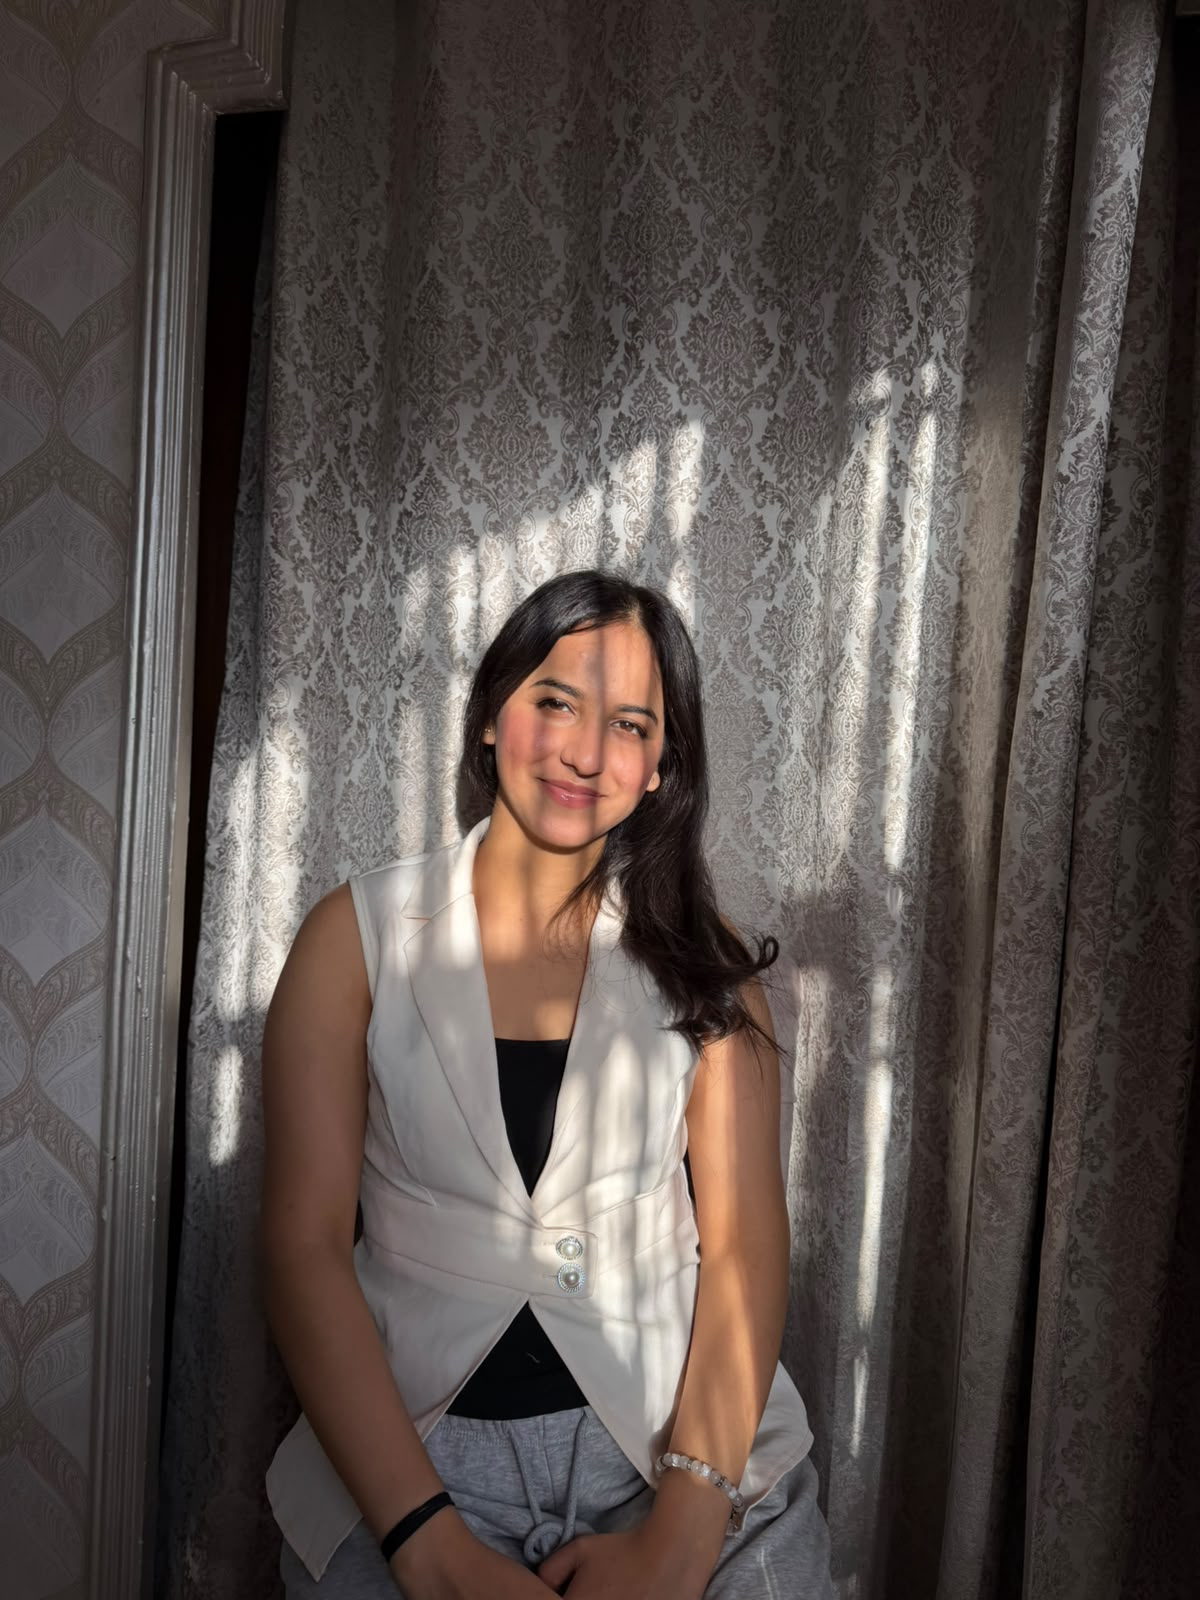
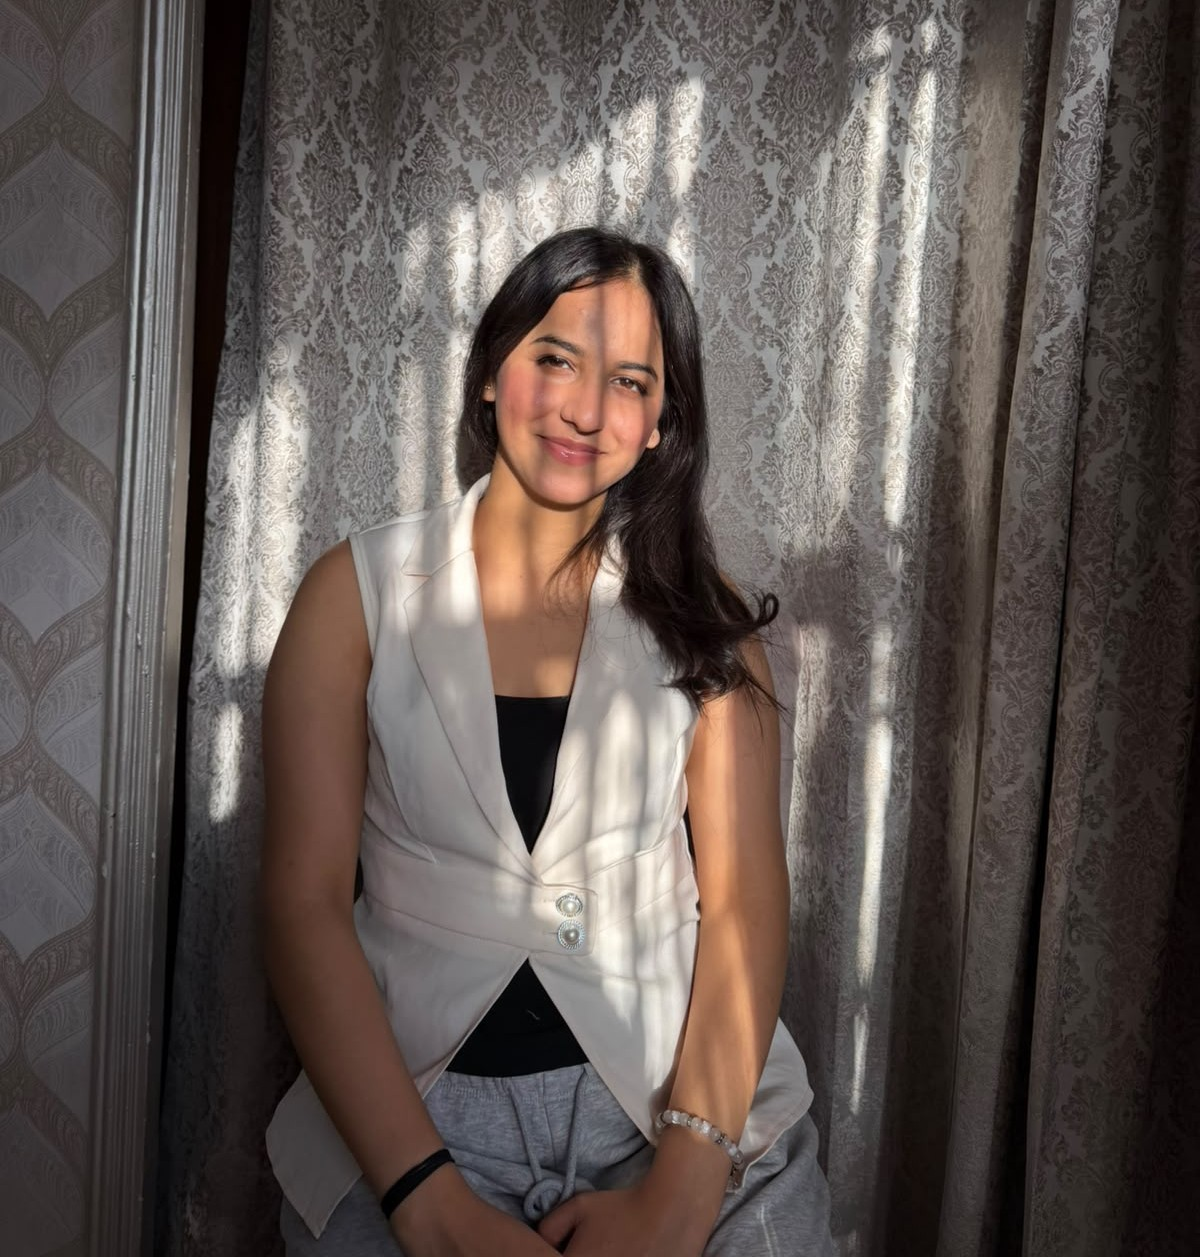
Reveal President card photo and name upon 3 clicks during electric shock explosion

diff --git a/src/components/MeetTheCrew.tsx b/src/components/MeetTheCrew.tsx
@@ -300,17 +300,20 @@ function CrewCard({
   cardRef,
   onTripleClick,
   isShockActive = false,
+  isRevealed = false,
 }: {
   member: CrewMember;
   width: string;
   cardRef?: React.RefObject<HTMLDivElement | null>;
   onTripleClick?: () => void;
   isShockActive?: boolean;
+  isRevealed?: boolean;
 }) {
   const clicksRef = useRef<number[]>([]);
+  const isCurrentlySecret = member.isSecret && !isRevealed;
 
   const handlePointerDown = () => {
-    if (!member.isSecret || !onTripleClick || isShockActive) return;
+    if (!isCurrentlySecret || !onTripleClick || isShockActive) return;
 
     const now = Date.now();
     // Keep clicks within 900ms window
@@ -329,7 +332,7 @@ function CrewCard({
       ref={cardRef}
       onPointerDown={handlePointerDown}
       className={`relative flex flex-col shrink-0 rounded-[10px] overflow-hidden ${
-        member.isSecret ? "cursor-pointer select-none" : ""
+        isCurrentlySecret ? "cursor-pointer select-none" : ""
       }`}
       style={{
         width,
@@ -389,7 +392,7 @@ function CrewCard({
       </div>
 
       <div className="relative w-full" style={{ aspectRatio: "1 / 1" }}>
-        {member.isSecret ? (
+        {isCurrentlySecret ? (
           <div
             className="absolute inset-0 flex flex-col items-center justify-center p-4 text-center select-none"
             style={{
@@ -449,14 +452,21 @@ function CrewCard({
             </div>
           </div>
         ) : member.image ? (
-          <Image
-            src={member.image}
-            alt={member.name}
-            fill
-            className="object-cover"
-            style={{ objectPosition: member.imagePosition || "center" }}
-            sizes="(max-width: 640px) 160px, 240px"
-          />
+          <motion.div
+            className="absolute inset-0"
+            initial={member.isSecret ? { opacity: 0, scale: 1.15 } : false}
+            animate={member.isSecret ? { opacity: 1, scale: 1 } : false}
+            transition={{ duration: 0.6, ease: "easeOut" }}
+          >
+            <Image
+              src={member.image}
+              alt={member.name}
+              fill
+              className="object-cover"
+              style={{ objectPosition: member.imagePosition || "center" }}
+              sizes="(max-width: 640px) 160px, 240px"
+            />
+          </motion.div>
         ) : (
           <div
             className="absolute inset-0 flex items-center justify-center"
@@ -481,23 +491,25 @@ function CrewCard({
         style={{ background: "#0f0f0f", height: 50 }}
       >
         <div className="min-w-0 flex-1">
-          {!member.isSecret && (
-            <p
+          {!isCurrentlySecret && (
+            <motion.p
+              initial={member.isSecret ? { opacity: 0, y: 5 } : false}
+              animate={member.isSecret ? { opacity: 1, y: 0 } : false}
               className="font-bold leading-tight text-white truncate"
               style={{ fontSize: "clamp(10px, 2.2vw, 13px)" }}
             >
               {member.name}
-            </p>
+            </motion.p>
           )}
           <p
-            className={`truncate ${member.isSecret ? "font-bold text-white text-center sm:text-left" : "mt-0.5 text-white/40"}`}
-            style={{ fontSize: member.isSecret ? "clamp(10px, 2.2vw, 12px)" : "clamp(8px, 2vw, 11px)" }}
+            className={`truncate ${isCurrentlySecret ? "font-bold text-white text-center sm:text-left" : "mt-0.5 text-white/40"}`}
+            style={{ fontSize: isCurrentlySecret ? "clamp(10px, 2.2vw, 12px)" : "clamp(8px, 2vw, 11px)" }}
             title={member.role}
           >
             {member.role}
           </p>
         </div>
-        {!member.isSecret && (
+        {!isCurrentlySecret && (
           <div className="flex gap-1.5 shrink-0">
             <SocialLink
               href={member.github}
@@ -545,12 +557,14 @@ function CrewRow({
   presidentCardRef,
   onPresidentTripleClick,
   isShockActive = false,
+  isPresidentRevealed = false,
 }: {
   title: string;
   members: CrewMember[];
   presidentCardRef?: React.RefObject<HTMLDivElement | null>;
   onPresidentTripleClick?: () => void;
   isShockActive?: boolean;
+  isPresidentRevealed?: boolean;
 }) {
   const isPresidentRow = title === "President & Campus Ambassador";
 
@@ -568,6 +582,7 @@ function CrewRow({
               member.isSecret && isPresidentRow ? onPresidentTripleClick : undefined
             }
             isShockActive={member.isSecret && isPresidentRow ? isShockActive : false}
+            isRevealed={member.isSecret && isPresidentRow ? isPresidentRevealed : false}
           />
         ))}
       </div>
@@ -602,6 +617,16 @@ export default function MeetTheCrew() {
   const sectionRef = useRef<HTMLDivElement>(null);
   const presidentCardRef = useRef<HTMLDivElement>(null);
   const [isShockActive, setIsShockActive] = useState(false);
+  const [isPresidentRevealed, setIsPresidentRevealed] = useState(false);
+
+  const handlePresidentTripleClick = () => {
+    if (isPresidentRevealed || isShockActive) return;
+    setIsShockActive(true);
+    // Reveal President at the climax of the electric shock explosion (~750ms)
+    setTimeout(() => {
+      setIsPresidentRevealed(true);
+    }, 750);
+  };
 
   return (
     <section
@@ -637,8 +662,9 @@ export default function MeetTheCrew() {
           title="President & Campus Ambassador"
           members={president}
           presidentCardRef={presidentCardRef}
-          onPresidentTripleClick={() => setIsShockActive(true)}
+          onPresidentTripleClick={handlePresidentTripleClick}
           isShockActive={isShockActive}
+          isPresidentRevealed={isPresidentRevealed}
         />
         <CrewRow title="Vice Presidents" members={vicePresidents} />
         <CrewRow title="Secretary & Joint Secretary" members={secretaries} />
